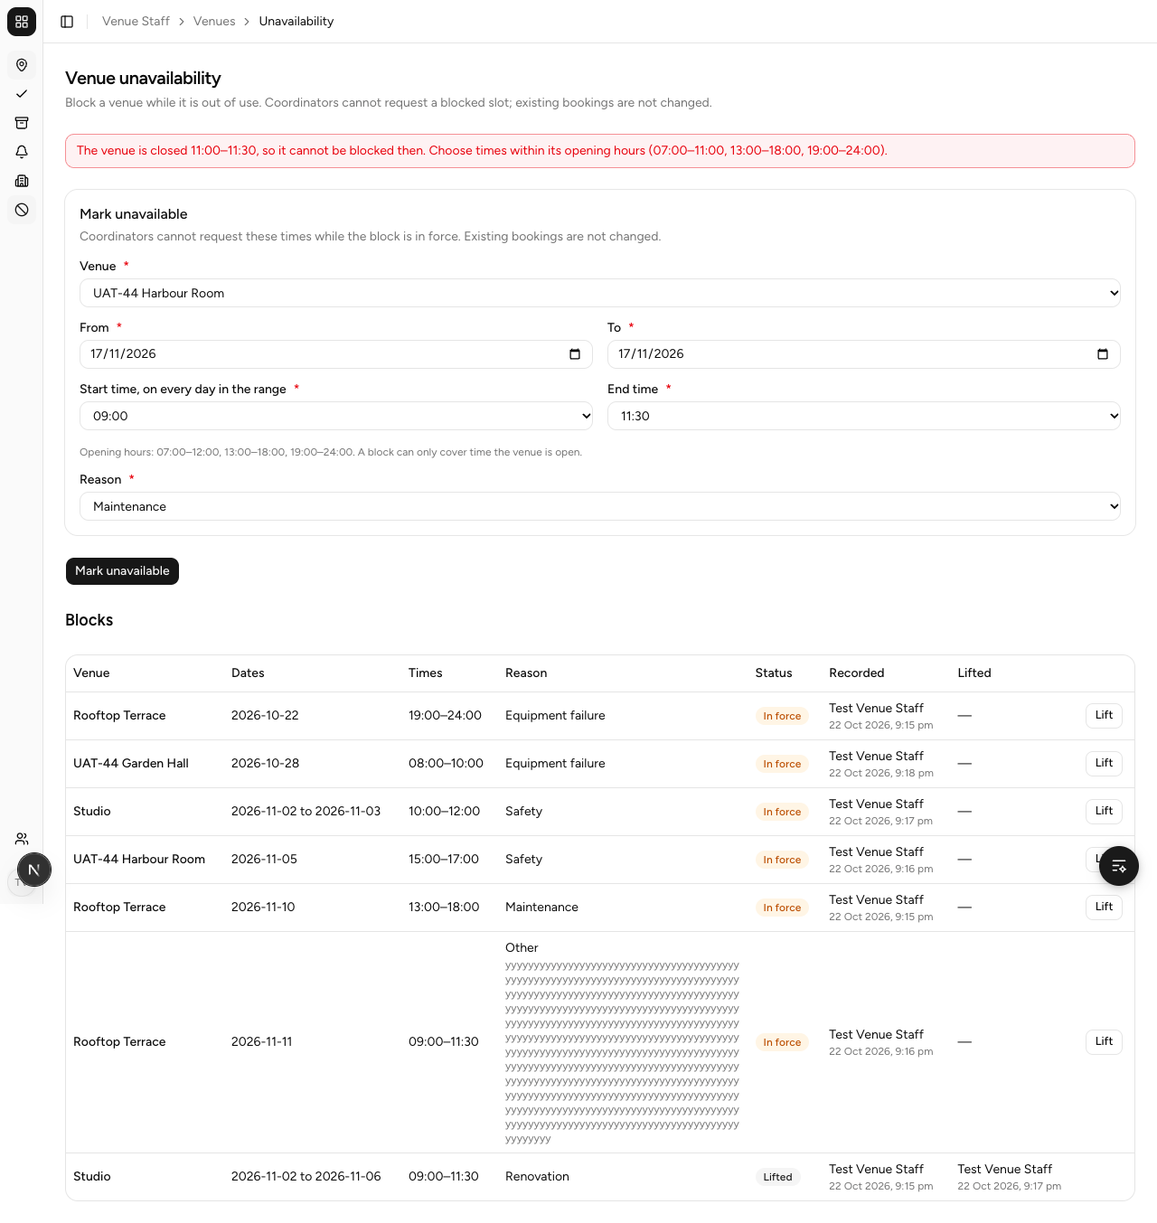
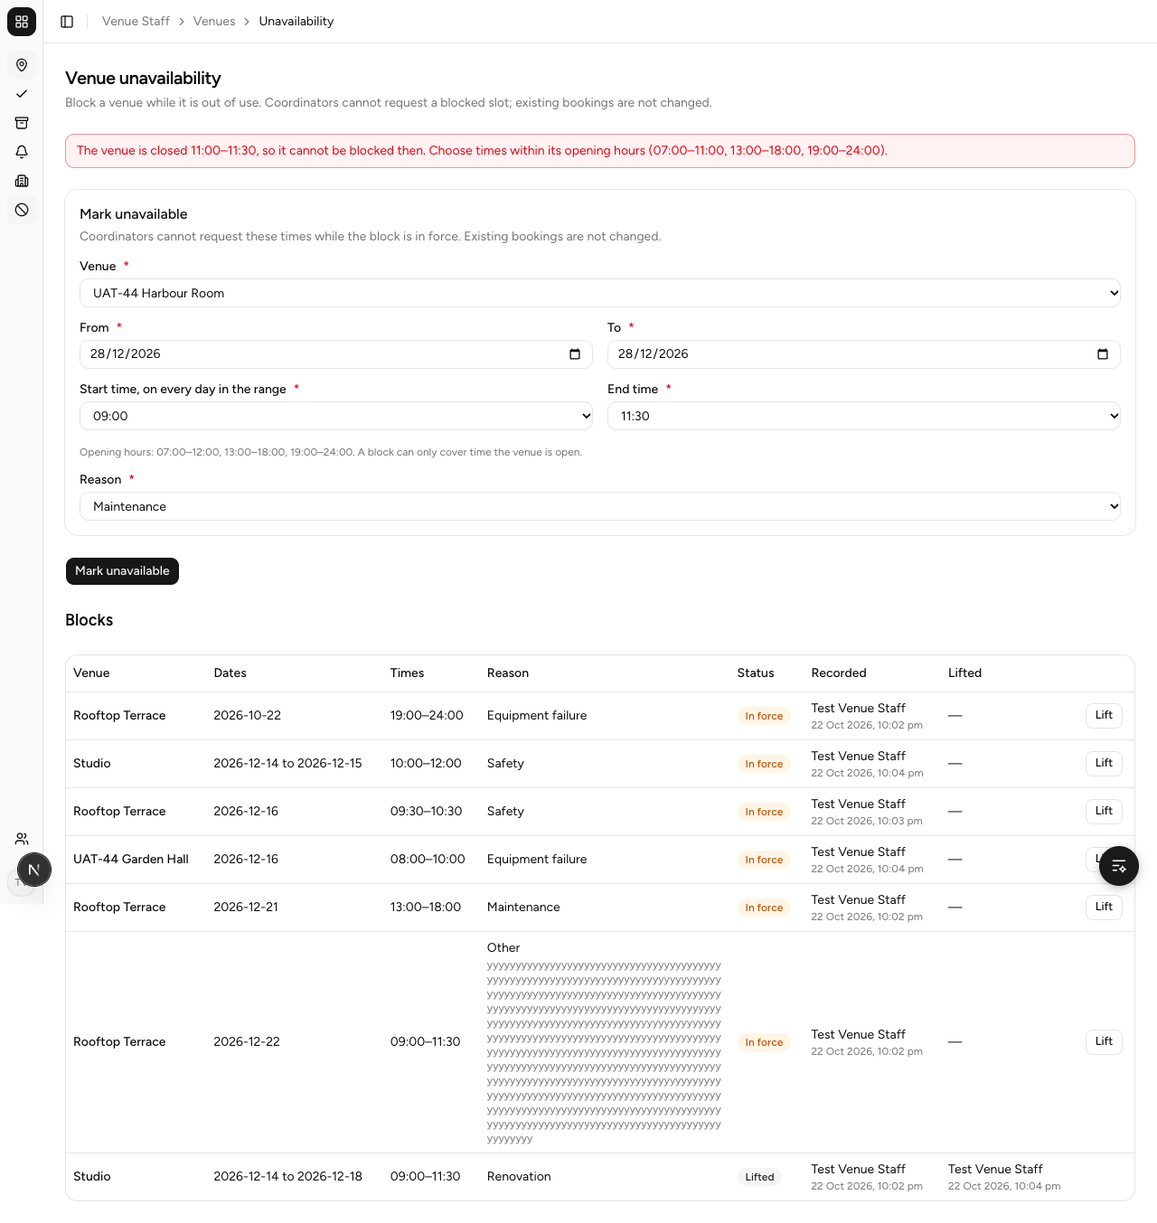
docs(testing): fixed December dates for the block cases, a booked-day case that no longer depends on the seed's date, and SPM-322's time search (SPM-321)

diff --git a/docs/testing/VENUE_UNAVAILABILITY_MANUAL_TESTS.md b/docs/testing/VENUE_UNAVAILABILITY_MANUAL_TESTS.md
@@ -69,16 +69,19 @@ Password for all: `TestPass123!` (see [`supabase/SEED.md`](../../supabase/SEED.m
 | Venue | Where it comes from | Opening hours | Used for |
 | --- | --- | --- | --- |
 | Main Hall, Studio, Rooftop Terrace | `seed-venues` | 07:00–12:00, 13:00–18:00, 19:00–24:00 | Blocks and booking requests. They have no booking horizon recorded, so venue search never lists them |
-| UAT-44 Harbour Room | `seed-venue-search-uat` | 07:00–12:00, 13:00–18:00, 19:00–24:00 | A Confirmed booking, *UAT-44 Booked Harbour*, on **D** PM (13:00 to 18:00) |
+| UAT-44 Harbour Room | `seed-venue-search-uat` | 07:00–12:00, 13:00–18:00, 19:00–24:00 | TC-VBLOCK-010 and the venue search in TC-VBLOCK-005 |
 | UAT-44 Garden Hall | `seed-venue-search-uat` | 07:00–12:00, 13:00–18:00 | The venue venue search lists, for TC-VBLOCK-005 |
 
 Every seeded venue is closed 12:00–13:00 and 18:00–19:00 (and, for Garden Hall, from 18:00).
 
 ### The dates used on this run
 
-Today is **Thursday 2026-10-22** (Singapore). **D** is 14 days from today, **2026-11-05**. Every
-date below is that run's exact date; if you run later, shift each by the same number of days (and
-keep a weekday range such as 2026-11-02 to 2026-11-06 in the future).
+Every date in these cases is fixed in **December 2026**, so the cases still work when they are run
+late in November or in December: Monday 2026-12-14 to Friday 2026-12-18 (the Studio week),
+Saturday 2026-12-19, Monday 2026-12-21 to Thursday 2026-12-24, Wednesday 2026-12-16 and Monday
+2026-12-28. Two things are not fixed, on purpose: "yesterday" in TC-VBLOCK-002 is the fixed past date
+2026-10-01, and the row that must end *tonight* uses **today's** date, because a block still in
+progress can only be tested with the day it runs. The run recorded below was on Thursday 2026-10-22.
 
 ---
 
@@ -87,12 +90,12 @@ keep a weekday range such as 2026-11-02 to 2026-11-06 in the future).
 ### TC-VBLOCK-001: Record a block by time and see it In force (SPM-321 AC1, AC2)
 
 **Scenario:** Studio's mornings need refurbishing. Venue Staff take Studio out of use from 09:00 to
-11:30 every weekday of the week of Monday 2026-11-02.
+11:30 every weekday of the week of Monday 2026-12-14.
 
 **Preconditions:** Signed in as `venue@test.com`; **Unavailability** in the sidebar.
 
 **Steps:**
-1. Choose **Studio**, From `2026-11-02`, To `2026-11-06`, Start time **09:00**, End time **11:30**, Reason **Renovation**.
+1. Choose **Studio**, From `2026-12-14`, To `2026-12-18`, Start time **09:00**, End time **11:30**, Reason **Renovation**.
 2. Press **Mark unavailable**.
 3. Count the stored records:
    ```sql
@@ -103,9 +106,9 @@ keep a weekday range such as 2026-11-02 to 2026-11-06 in the future).
    ```
 
 **Expected Result:**
-- The block saves and is listed: Studio, 2026-11-02 to 2026-11-06, **09:00–11:30**, Renovation, **In force**, recorded by Test Venue Staff with the time.
+- The block saves and is listed: Studio, 2026-12-14 to 2026-12-18, **09:00–11:30**, Renovation, **In force**, recorded by Test Venue Staff with the time.
 - The page says *No bookings are affected.*
-- A green message says what was saved: *Saved. Studio is blocked 2026-11-02 to 2026-11-06, 09:00–11:30, for renovation. It is In force and listed below.*
+- A green message says what was saved: *Saved. Studio is blocked 2026-12-14 to 2026-12-18, 09:00–11:30, for renovation. It is In force and listed below.*
 - The form is empty again, with **Mark unavailable** disabled, so the block is not one click from being saved a second time.
 - The count is **50**: five days × ten quarter hours (codes 36 to 45 each day).
 
@@ -125,13 +128,13 @@ keep a weekday range such as 2026-11-02 to 2026-11-06 in the future).
 
 | From | To | Times | Reason | Note | Expected |
 | --- | --- | --- | --- | --- | --- |
-| 2026-11-10 | 2026-11-09 | 09:00–11:30 | Maintenance | — | Refused: the end date is before the start date (AC4) |
-| 2026-10-21 | 2026-10-21 | 09:00–11:30 | Maintenance | — | Refused: *A block cannot end in the past (2026-10-21 11:30).* (AC5) |
-| 2026-11-12 | 2026-11-12 | 09:00–11:30 | Other | 501 characters | Refused: at most 500 characters (AC8) |
-| 2026-11-13 | 2026-11-13 | 09:00 to *(none)* | Maintenance | — | **Mark unavailable** stays disabled (AC3) |
-| 2026-11-10 | 2026-11-10 | 13:00–18:00 | Maintenance | — | **Accepted**: one day (AC4) |
+| 2026-12-21 | 2026-12-20 | 09:00–11:30 | Maintenance | — | Refused: the end date is before the start date (AC4) |
+| 2026-10-01 | 2026-10-01 | 09:00–11:30 | Maintenance | — | Refused: *A block cannot end in the past (2026-10-01 11:30).* (AC5) |
+| 2026-12-23 | 2026-12-23 | 09:00–11:30 | Other | 501 characters | Refused: at most 500 characters (AC8) |
+| 2026-12-24 | 2026-12-24 | 09:00 to *(none)* | Maintenance | — | **Mark unavailable** stays disabled (AC3) |
+| 2026-12-21 | 2026-12-21 | 13:00–18:00 | Maintenance | — | **Accepted**: one day (AC4) |
 | today, 2026-10-22 | 2026-10-22 | 19:00–24:00 | Equipment failure | — | **Accepted**: a block ending tonight at midnight has not ended (AC5) |
-| 2026-11-11 | 2026-11-11 | 09:00–11:30 | Other | exactly 500 characters | **Accepted** (AC8) |
+| 2026-12-22 | 2026-12-22 | 09:00–11:30 | Other | exactly 500 characters | **Accepted** (AC8) |
 
 Then choose **Safety**: the **Note** box is not offered (AC7).
 
@@ -153,26 +156,29 @@ supabase db query --file scripts/seed-venue-unavailability/refusals.sql --local
 
 ### TC-VBLOCK-003: Block a booked date and see what it overlaps (SPM-321 AC4; SPM-21 AC10)
 
-**Scenario:** Harbour Room has a Confirmed booking, *UAT-44 Booked Harbour*, on D PM (13:00 to 18:00). Venue Staff need the room from 15:00 to 17:00 that day for a safety inspection.
+**Scenario:** The Coordinator books Rooftop Terrace for the morning of Wednesday 2026-12-16 (AM is 07:00 to 12:00) and Venue Staff approve it, so it is Confirmed. Then Venue Staff need the terrace from 09:30 to 10:30 that day for a safety inspection. The block covers only part of the booking, and it must not move the booking.
 
-**Preconditions:** As TC-VBLOCK-001.
+**Preconditions:** The Venue Safety Review request approved once as `coordinator@test.com` (Setup). Signed in as `coordinator@test.com` first, then `venue@test.com`.
 
 **Steps:**
-1. Choose **UAT-44 Harbour Room**, From and To `2026-11-05`, Start **15:00**, End **17:00**, Reason **Safety**, press **Mark unavailable**.
-2. Read **Bookings this block overlaps**.
-3. Check the booking and its event:
+1. As `coordinator@test.com` open `/staff/coordinator/4/venue-booking`, choose **Rooftop Terrace**, layout **Banquet**, date `2026-12-16`, tick **AM**, press **Send booking request**.
+2. As `venue@test.com` open **Requests**, the **Rooftop Terrace** request for 2026-12-16 AM, and press **Approve booking**. It reads *Confirmed*.
+3. Open **Unavailability**. Choose **Rooftop Terrace**, From and To `2026-12-16`, Start **09:30**, End **10:30**, Reason **Safety**, press **Mark unavailable**.
+4. Read **Bookings this block overlaps**.
+5. Check the booking and its event:
    ```sql
    select b.status as booking_status, e.status as event_status
      from booking b join event e using (event_id)
-    where e.name = 'UAT-44 Booked Harbour';
+     join booking_slot bs on bs.booking_id = b.booking_id
+    where bs.slot_date = '2026-12-16' and b.venue_id = (select venue_id from venue where location = 'Rooftop Terrace');
    ```
 
 **Expected Result:**
-- The block saves (it does not need the booking to move).
-- The card lists *UAT-44 Booked Harbour · 2026-11-05 13:00 to 18:00 · Confirmed*: the booking's days and hours, not the PM slot name, and says the bookings and their events are unchanged.
-- The booking is still `Confirmed` and the event still `Planning`.
+- Step 3: the block saves; it does not wait for the booking to move.
+- Step 4: the card lists *Venue Safety Review · 2026-12-16 07:00 to 12:00 · Confirmed*: the booking's whole days and hours, not the slot name, though the block covers only 09:30 to 10:30. It says the bookings and their events are unchanged.
+- Step 5: the booking is still `Confirmed` and the event still `Planning`.
 
-**Status:** [x] Pass [ ] Fail — 2026-10-22, run in Chrome via Playwright by Claude Code for JameszLau (6/6 checks)
+**Status:** [x] Pass [ ] Fail — 2026-10-22, run in Chrome via Playwright by Claude Code for JameszLau (5/5 checks)
 
 **Screenshots:** [step1-form-filled](../screenshots/2026-10-22_SPM-321_TC-VBLOCK-003_step1-form-filled.png) · [step2-affected-bookings-listed](../screenshots/2026-10-22_SPM-321_TC-VBLOCK-003_step2-affected-bookings-listed.png)
 
@@ -180,17 +186,17 @@ supabase db query --file scripts/seed-venue-unavailability/refusals.sql --local
 
 ### TC-VBLOCK-004: A coordinator cannot request a blocked time (SPM-321 AC3)
 
-**Scenario:** Studio is blocked 09:00 to 11:30 on Monday 2026-11-02 (TC-VBLOCK-001). The Coordinator tries to book Studio for the morning (AM is 07:00 to 12:00, so it overlaps the block), then for the afternoon, then for the weekend day after the block ends.
+**Scenario:** Studio is blocked 09:00 to 11:30 on Monday 2026-12-14 (TC-VBLOCK-001). The Coordinator tries to book Studio for the morning (AM is 07:00 to 12:00, so it overlaps the block), then for the afternoon, then for the weekend day after the block ends.
 
 **Preconditions:** TC-VBLOCK-001 has run. Signed in as `coordinator@test.com`; open `/staff/coordinator/4/venue-booking`.
 
 **Steps:**
-1. Choose **Studio**, date `2026-11-02`, tick **AM**, press **Send booking request**.
-2. Choose **Studio**, date `2026-11-02`, tick **PM**, send.
-3. Choose **Studio**, date `2026-11-07`, tick **AM**, send.
+1. Choose **Studio**, date `2026-12-14`, tick **AM**, press **Send booking request**.
+2. Choose **Studio**, date `2026-12-14`, tick **PM**, send.
+3. Choose **Studio**, date `2026-12-19`, tick **AM**, send.
 
 **Expected Result:**
-- Step 1: refused with *The venue is unavailable 2026-11-02 09:00 to 11:30. Choose other times or another venue.* and nothing is requested. It names the blocked times, not "AM". There is no way to override it.
+- Step 1: refused with *The venue is unavailable 2026-12-14 09:00 to 11:30. Choose other times or another venue.* and nothing is requested. It names the blocked times, not "AM". There is no way to override it.
 - Step 2: accepted: PM (13:00 to 18:00) shares no time with the block.
 - Step 3: accepted: the day after the block ends.
 
@@ -202,41 +208,43 @@ supabase db query --file scripts/seed-venue-unavailability/refusals.sql --local
 
 ### TC-VBLOCK-005: Venue search leaves a blocked venue out (SPM-321 AC8; SPM-21 AC14)
 
-**Scenario:** Garden Hall's projector is broken from 08:00 to 10:00 on Wednesday 2026-10-28. A Coordinator searching for a morning that day should not be offered it, but should still be offered it for the afternoon.
+**Scenario:** Garden Hall's projector is broken from 08:00 to 10:00 on Wednesday 2026-12-16. A Coordinator searching for 09:00 to 10:00 that day should not be offered it. A search starting at 10:00, the moment the block ends, or in the afternoon, should still offer it.
 
-**Preconditions:** Venue search lists only venues with opening hours and a booking horizon, so this case uses **UAT-44 Garden Hall**. As `venue@test.com`, block it from **08:00** to **10:00** on `2026-10-28` (Reason **Equipment failure**). Then sign in as `coordinator@test.com` and open **Find a venue**.
+**Preconditions:** Venue search lists only venues with opening hours and a booking horizon, so this case uses **UAT-44 Garden Hall**. As `venue@test.com`, block it from **08:00** to **10:00** on `2026-12-16` (Reason **Equipment failure**). Then sign in as `coordinator@test.com` and open **Find a venue**.
 
 **Steps:**
-1. Search date `2026-10-28`, tick **AM**, press **Search**.
-2. Search date `2026-10-28`, tick **PM**, press **Search**.
+1. Search date `2026-12-16`, **Start time** `09:00`, **End time** `10:00`, press **Search**.
+2. Search date `2026-12-16`, **Start time** `10:00`, **End time** `11:00`, press **Search**.
+3. Search date `2026-12-16`, **Start time** `13:00`, **End time** `14:00`, press **Search**.
 
 **Expected Result:**
 - Step 1: **UAT-44 Garden Hall** is not listed; UAT-44 Harbour Room is. The summary counts a venue not shown because it is already booked in the time chosen.
-- Step 2: both venues are listed: the block does not reach PM.
+- Step 2: both venues are listed. The search starts at 10:00, exactly when the block ends, so they share no time.
+- Step 3: both venues are listed: the block does not reach the afternoon.
 
-**Status:** [x] Pass [ ] Fail — 2026-10-22, run in Chrome via Playwright by Claude Code for JameszLau (3/3 checks)
+**Status:** [x] Pass [ ] Fail — 2026-10-22, run in Chrome via Playwright by Claude Code for JameszLau (4/4 checks)
 
-**Screenshots:** [step1-blocked-venue-left-out](../screenshots/2026-10-22_SPM-321_TC-VBLOCK-005_step1-blocked-venue-left-out.png) · [step2-other-slot-both-listed](../screenshots/2026-10-22_SPM-321_TC-VBLOCK-005_step2-other-slot-both-listed.png)
+**Screenshots:** [step1-blocked-venue-left-out](../screenshots/2026-10-22_SPM-321_TC-VBLOCK-005_step1-blocked-venue-left-out.png) · [step2-touching-time-listed](../screenshots/2026-10-22_SPM-321_TC-VBLOCK-005_step2-touching-time-listed.png) · [step3-other-time-both-listed](../screenshots/2026-10-22_SPM-321_TC-VBLOCK-005_step3-other-time-both-listed.png)
 
 ---
 
 ### TC-VBLOCK-006: Lift a block, overlap, and history (SPM-321 AC5; SPM-21 AC15 to AC17, AC19)
 
-**Scenario:** After TC-VBLOCK-001 Studio is blocked 09:00 to 11:30 (Renovation) from 2026-11-02 to 2026-11-06. Venue Staff add a Safety block over 10:00 to 12:00 on 2026-11-02 and 2026-11-03, then lift the Renovation block early. The Safety block must keep refusing the overlap, and the times only Renovation held must come free.
+**Scenario:** After TC-VBLOCK-001 Studio is blocked 09:00 to 11:30 (Renovation) from 2026-12-14 to 2026-12-18. Venue Staff add a Safety block over 10:00 to 12:00 on 2026-12-14 and 2026-12-15, then lift the Renovation block early. The Safety block must keep refusing the overlap, and the times only Renovation held must come free.
 
 **Preconditions:** TC-VBLOCK-001 and TC-VBLOCK-004 have run.
 
 **Steps:**
-1. As `venue@test.com`, block **Studio** from `2026-11-02` to `2026-11-03`, Start **10:00**, End **12:00**, Reason **Safety**. It overlaps the Renovation block between 10:00 and 11:30.
+1. As `venue@test.com`, block **Studio** from `2026-12-14` to `2026-12-15`, Start **10:00**, End **12:00**, Reason **Safety**. It overlaps the Renovation block between 10:00 and 11:30.
 2. On the **Studio Renovation** row, press **Lift**, then reload.
-3. As `coordinator@test.com`, request **Studio** on `2026-11-03` AM.
-4. Request **Studio** on `2026-11-04` AM.
+3. As `coordinator@test.com`, request **Studio** on `2026-12-15` AM.
+4. Request **Studio** on `2026-12-16` AM.
 
 **Expected Result:**
 - Step 1: the second block saves although it covers some of the same time.
 - Step 2: the Renovation row shows **Lifted**, with who lifted it and when, and has **no Lift button**. It stays in the list.
-- Step 3: refused: *The venue is unavailable 2026-11-03 10:00 to 12:00. Choose other times or another venue.* The Safety block still covers it.
-- Step 4: accepted: only the lifted block covered 2026-11-04.
+- Step 3: refused: *The venue is unavailable 2026-12-15 10:00 to 12:00. Choose other times or another venue.* The Safety block still covers it.
+- Step 4: accepted: only the lifted block covered 2026-12-16.
 
 **Status:** [x] Pass [ ] Fail — 2026-10-22, run in Chrome via Playwright by Claude Code for JameszLau (4/4 checks)
 
@@ -315,18 +323,18 @@ and the CLI words any error as "failed". A real failure reads `error: FAILED: <t
 
 ### TC-VBLOCK-010: A block over closed time is refused, naming it (SPM-321 AC7)
 
-**Scenario:** Venue Staff A opens the form for UAT-44 Harbour Room and picks 09:00–11:30 on 2026-11-17. Before A saves, a colleague shortens the Harbour Room's morning hours to end at 11:00. A's page still shows 11:00–12:00 as open, but the server knows better.
+**Scenario:** Venue Staff A opens the form for UAT-44 Harbour Room and picks 09:00–11:30 on 2026-12-28. Before A saves, a colleague shortens the Harbour Room's morning hours to end at 11:00. A's page still shows 11:00–12:00 as open, but the server knows better.
 
 **Preconditions:** Signed in as `venue@test.com`.
 
 **Steps:**
-1. Open the form, choose **UAT-44 Harbour Room**, From and To `2026-11-17`, Start **09:00**, End **11:30**, Reason **Maintenance**. Do not save yet.
+1. Open the form, choose **UAT-44 Harbour Room**, From and To `2026-12-28`, Start **09:00**, End **11:30**, Reason **Maintenance**. Do not save yet.
 2. In a second tab, as `venue@test.com`, open **Venues**, then **UAT-44 Harbour Room**, change the first opening window's **Closes** hour from 12 to **11** (minute 00) and press **Save venue**.
 3. Back in the first tab press **Mark unavailable**.
 4. Put the hours back: in the second tab set the first window's **Closes** hour back to **12** and press **Save venue**.
 
 **Expected Result:**
-- Step 3: refused with *The venue is closed 11:00–11:30, so it cannot be blocked then. Choose times within its opening hours (07:00–11:00, 13:00–18:00, 19:00–24:00).* The form still shows the venue and times chosen, and nothing is saved for 2026-11-17.
+- Step 3: refused with *The venue is closed 11:00–11:30, so it cannot be blocked then. Choose times within its opening hours (07:00–11:00, 13:00–18:00, 19:00–24:00).* The form still shows the venue and times chosen, and nothing is saved for 2026-12-28.
 
 **Status:** [x] Pass [ ] Fail — 2026-10-22, run in Chrome via Playwright by Claude Code for JameszLau (5/5 checks), with the hours changed and restored through the venue form
 
@@ -336,37 +344,37 @@ and the CLI words any error as "failed". A real failure reads `error: FAILED: <t
 
 ### TC-VBLOCK-011: A block on part of a slot blocks that slot on the calendar (SPM-321 AC8)
 
-**Scenario:** Studio is blocked 09:00 to 11:30 (Renovation) for the week of 2026-11-02. A Coordinator looking at Studio's calendar for that week should see the mornings as Blocked with the reason, and the afternoons and evenings as Available.
+**Scenario:** Studio is blocked 09:00 to 11:30 (Renovation) for the week of 2026-12-14. A Coordinator looking at Studio's calendar for that week should see the mornings as Blocked with the reason, and the afternoons and evenings as Available.
 
 **Preconditions:** TC-VBLOCK-001 has run, and TC-VBLOCK-006 has not (it lifts the Renovation block). Signed in as `coordinator@test.com`.
 
 **Steps:**
-1. Open **Find a venue**, then Studio's calendar, and go to the week of Monday 2026-11-02 (or open the calendar with `?from=2026-11-02`).
+1. Open **Find a venue**, then Studio's calendar, and go to the week of Monday 2026-12-14 (or open the calendar with `?from=2026-12-14`).
 
 **Expected Result:**
-- Monday 2026-11-02 to Friday 2026-11-06: **AM** reads **Blocked** with *Renovation*. **PM** and **Night** read **Available** (the block does not reach them).
+- Monday 2026-12-14 to Friday 2026-12-18: **AM** reads **Blocked** with *Renovation*. **PM** and **Night** read **Available** (the block does not reach them).
 
 **Status:** [x] Pass [ ] Fail — 2026-10-22, run in Chrome via Playwright by Claude Code for JameszLau (1/1 check)
 
-**Screenshots:** [step1-calendar-week-of-2026-11-02](../screenshots/2026-10-22_SPM-321_TC-VBLOCK-011_step1-calendar-week-of-2026-11-02.png)
+**Screenshots:** [step1-calendar-week-of-2026-12-14](../screenshots/2026-10-22_SPM-321_TC-VBLOCK-011_step1-calendar-week-of-2026-12-14.png)
 
 ---
 
 ### TC-VBLOCK-012: The same block cannot be saved twice (SPM-321)
 
-**Scenario:** Rooftop Terrace is blocked for Maintenance on 2026-11-10, 13:00–18:00 (TC-VBLOCK-002, row 5). A second member of Venue Staff, with an old page open, enters exactly the same block. It should be refused, not stacked. A different reason, or shorter times, is a different block and is allowed. **Other** is exempt: its note is free text nothing reads, so Venue Staff may record the same Other block more than once.
+**Scenario:** Rooftop Terrace is blocked for Maintenance on 2026-12-21, 13:00–18:00 (TC-VBLOCK-002, row 5). A second member of Venue Staff, with an old page open, enters exactly the same block. It should be refused, not stacked. A different reason, or shorter times, is a different block and is allowed. **Other** is exempt: its note is free text nothing reads, so Venue Staff may record the same Other block more than once.
 
 **Preconditions:** TC-VBLOCK-002 has run, so the Rooftop Terrace block above is In force. Signed in as `venue@test.com`.
 
 **Steps:**
-1. Choose **Rooftop Terrace**, From and To `2026-11-10`, Start **13:00**, End **18:00**, Reason **Maintenance**, press **Mark unavailable**.
+1. Choose **Rooftop Terrace**, From and To `2026-12-21`, Start **13:00**, End **18:00**, Reason **Maintenance**, press **Mark unavailable**.
 2. Change only the **Reason** to **Equipment failure** and press **Mark unavailable**.
-3. Choose **Rooftop Terrace**, From and To `2026-11-10`, Start **13:00**, End **17:00**, Reason **Maintenance**, press **Mark unavailable**.
-4. Choose **Rooftop Terrace**, From and To `2026-11-11`, Start **09:00**, End **11:30**, Reason **Other**, Note *Film shoot*, press **Mark unavailable**. Then do exactly the same again.
+3. Choose **Rooftop Terrace**, From and To `2026-12-21`, Start **13:00**, End **17:00**, Reason **Maintenance**, press **Mark unavailable**.
+4. Choose **Rooftop Terrace**, From and To `2026-12-22`, Start **09:00**, End **11:30**, Reason **Other**, Note *Film shoot*, press **Mark unavailable**. Then do exactly the same again.
 
 **Expected Result:**
 - Step 1: refused with *That block is already in force: same venue, reason, dates and times.* Nothing is saved, and the form keeps what was entered so one field can be changed.
-- Step 2: saves: the same hours under another reason is a different block (overlapping blocks are allowed). The *Saved.* message names Rooftop Terrace, 2026-11-10, 13:00–18:00, equipment failure.
+- Step 2: saves: the same hours under another reason is a different block (overlapping blocks are allowed). The *Saved.* message names Rooftop Terrace, 2026-12-21, 13:00–18:00, equipment failure.
 - Step 3: saves: the same reason over shorter times overlaps the first but is not the same block.
 - Step 4: both save. The same Other block, even with the same note, is never refused (TC-VBLOCK-002 row 7 already recorded an Other block for those hours).
 - A lifted block no longer counts: after lifting, the identical block can be saved again (unit and database checks).
@@ -379,7 +387,7 @@ and the CLI words any error as "failed". A real failure reads `error: FAILED: <t
 
 ### TC-VBLOCK-013: Existing blocks convert to 15-minute slots (SPM-321 AC6)
 
-**Scenario:** Before this change Studio had a Renovation block on 2026-12-01 and 2026-12-02 for AM and Night, and a Safety block on 2026-12-03 PM that Venue Staff had already lifted. After the upgrade they must cover exactly the same hours, none may be lost, and the lifted one must stay lifted.
+**Scenario:** Before this change Studio had a Renovation block on 2026-12-21 and 2026-12-22 for AM and Night, and a Safety block on 2026-12-23 PM that Venue Staff had already lifted. After the upgrade they must cover exactly the same hours, none may be lost, and the lifted one must stay lifted.
 
 **Preconditions:** Local Supabase. This case rebuilds the database only as far as the migration before this one, so it cannot follow the browser cases without a reset.
 
@@ -394,9 +402,9 @@ and the CLI words any error as "failed". A real failure reads `error: FAILED: <t
 with staff as (select user_account_id u from user_account where name = 'Test Venue Staff' and client_organisation_id is null),
 studio as (select venue_id v from venue where location = 'Studio'),
 ren as (insert into venue_unavailability (venue_id, reason_category, recorded_by_user_account_id) select v, 'Renovation', u from studio, staff returning venue_unavailability_id i),
-s1 as (insert into venue_unavailability_slot (venue_unavailability_id, slot_date, slot) select i, d, s from ren, (values ('2026-12-01'::date), ('2026-12-02')) d(d), (values ('AM'), ('Night')) s(s) returning 1),
+s1 as (insert into venue_unavailability_slot (venue_unavailability_id, slot_date, slot) select i, d, s from ren, (values ('2026-12-21'::date), ('2026-12-22')) d(d), (values ('AM'), ('Night')) s(s) returning 1),
 saf as (insert into venue_unavailability (venue_id, reason_category, recorded_by_user_account_id, lifted_by_user_account_id, lifted_at) select v, 'Safety', u, u, now() from studio, staff returning venue_unavailability_id i),
-s2 as (insert into venue_unavailability_slot (venue_unavailability_id, slot_date, slot) select i, '2026-12-03', 'PM' from saf returning 1)
+s2 as (insert into venue_unavailability_slot (venue_unavailability_id, slot_date, slot) select i, '2026-12-23', 'PM' from saf returning 1)
 select (select count(*) from s1) as renovation_rows, (select count(*) from s2) as safety_rows
    ```
    It reports 4 Renovation rows and 1 Safety row.
